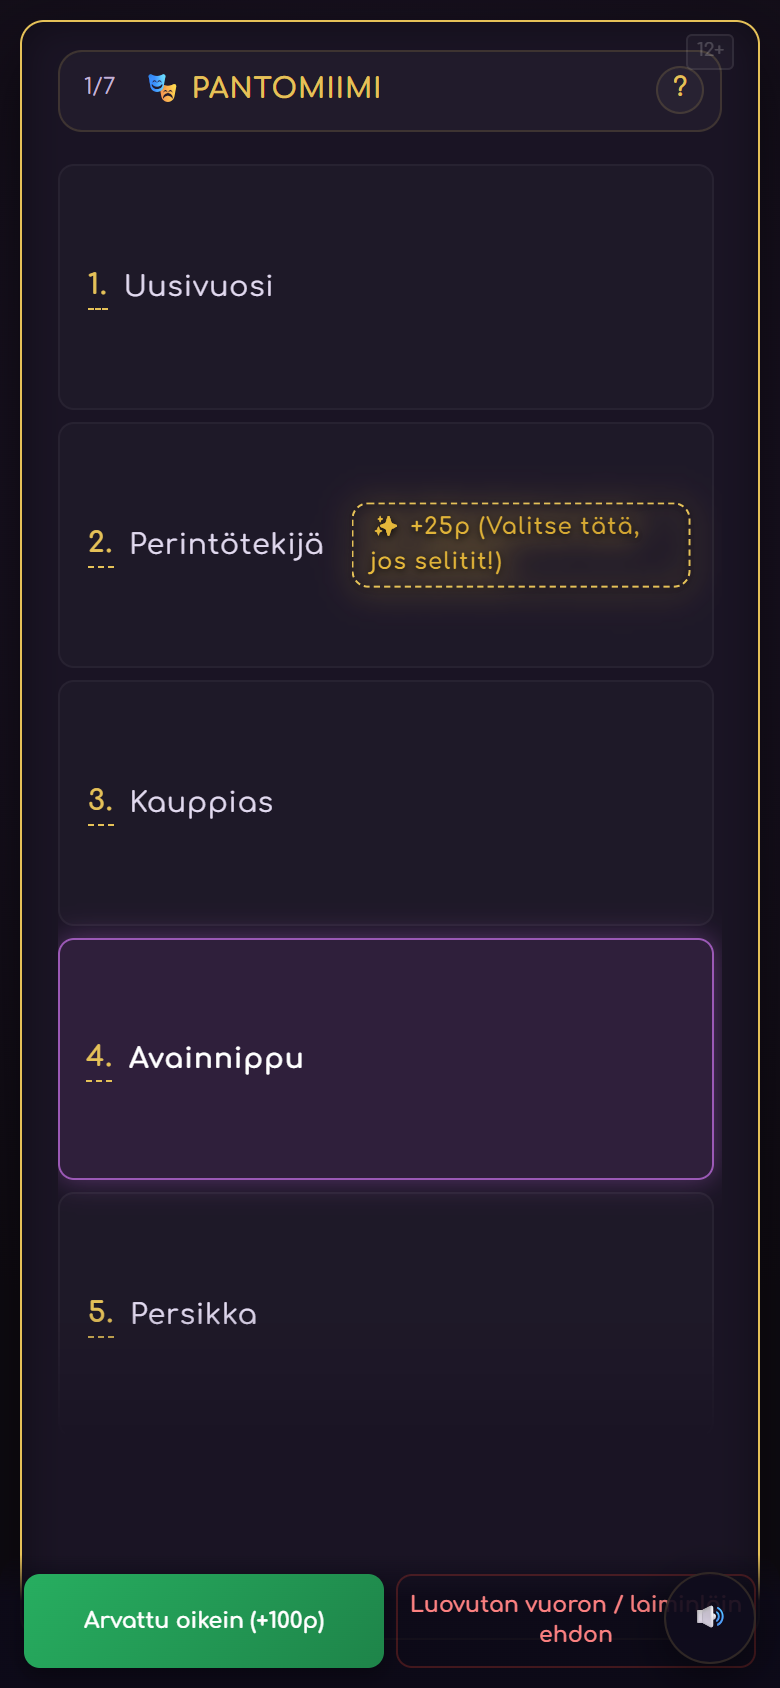
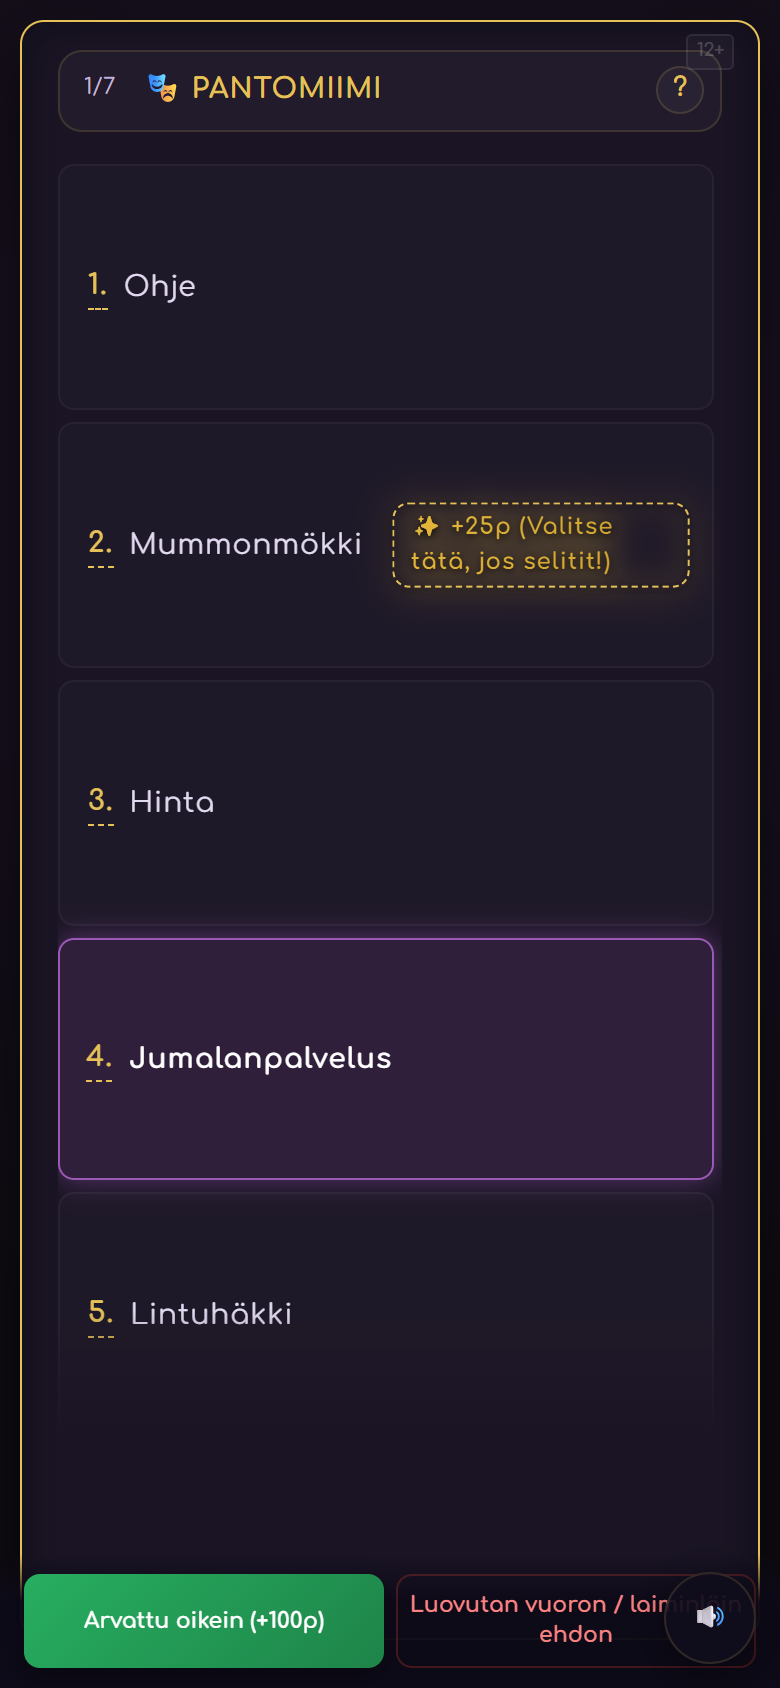
Fix veil grain blinding at full opacity (task 26b)
The fade-in rule set opacity:1 on ALL veil layers, overriding
#wordGrain's own 0.12 and hint-dim's 0.4 -> dense bright dot field.
Rule now only sets the 1.8s transition; each layer keeps its own
opacity, so the veil looks like the old soft dark fog again.

Generated with [Devin](https://devin.ai)

diff --git a/styles.css b/styles.css
@@ -525,11 +525,12 @@ button:disabled, .spell-btn:disabled {
 }
 
 /* Pidä pohjassa -> koko lista näkyy välittömästi; vapautuksen jälkeen
-   verho drippaa takaisin ~1.8 s himmennyksenä (ei äkkipiiloa) */
+   verho drippaa takaisin ~1.8 s himmennyksenä (ei äkkipiiloa).
+   TÄRKEÄ: vain transition — ei opacity-määritystä, jotta jokaisen kerroksen
+   oma peittävyys säilyy (wordGrain 0.12, hint-dim 0.4). */
 #wordListWrap.mask-on:not(.revealing) #wordMask,
 #wordListWrap.mask-on:not(.revealing) #wordGrain,
 #wordListWrap.mask-on:not(.revealing) #wordMaskHint {
-    opacity: 1;
     transition: opacity 1.8s ease;
 }
 #wordListWrap.revealing #wordMask,

diff --git a/audit/AUDIT.md b/audit/AUDIT.md
@@ -1094,3 +1094,12 @@ vs pill 722–784px, `elementFromPoint` → пилюля.
   verify4 — **21/21**.
 - Kuvat: `gest-armed-card.png` (violetti kortti sormen alla),
   `gest-selected-glow.png` (violetti hehku + sumu himmenee takaisin).
+
+### Task 26b — rakeisuus piilossa: opacity-bugi korjattu
+- Virhe: `.mask-on:not(.revealing)` -säännössä `opacity:1` koski
+  KAIKKIA verhokerroksia → `#wordGrain`-ominaisuuden `opacity:0.12`
+  jäi voimattomaksi → tiheä kirkas pistekenttä peitti listan.
+- Korjaus: sääntö asettaa vain `transition: opacity 1.8s` — jokaisen
+  kerroksen oma opacity säilyy (grain 0.12, hint-dim 0.4). Verho
+  näyttää taas pehmeältä tummalta sumulta kuten ennen.
+- verify17 **58/58**, verify15 **43/43**.
